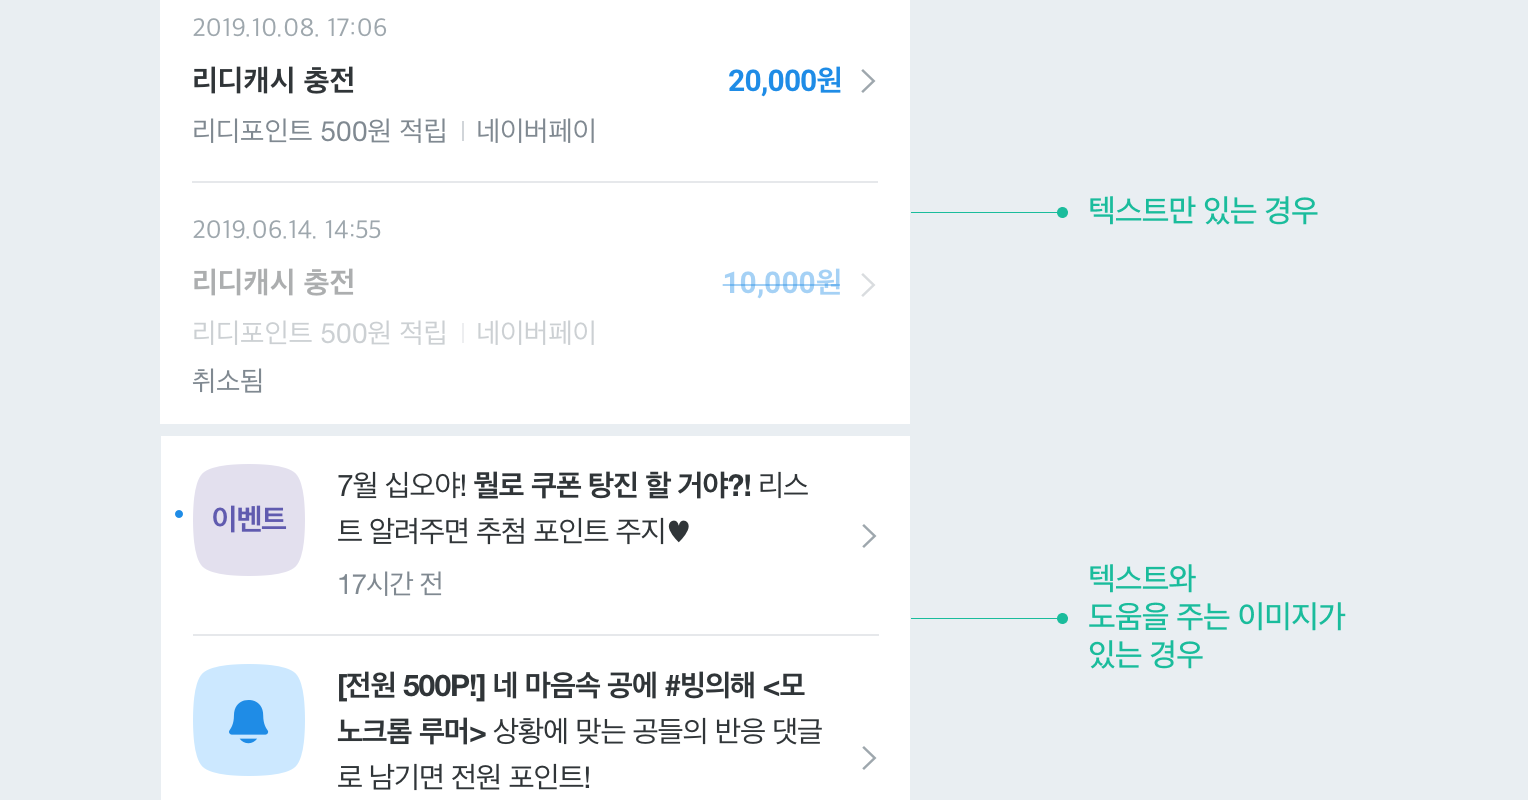
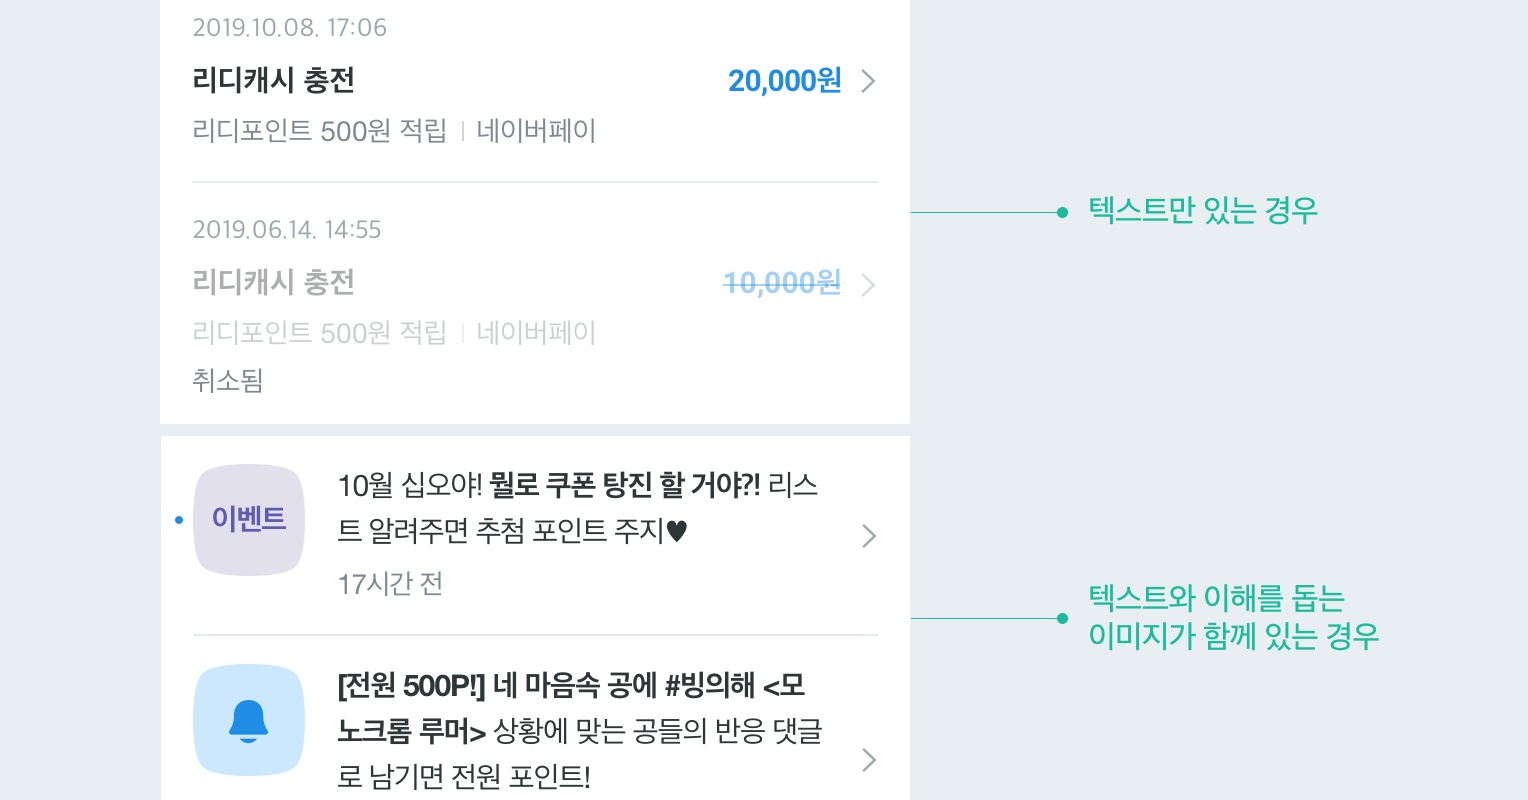
피드백 반영

Changed region(s): [[0.7075, 0.6875, 0.9228, 0.8438], [0.2153, 0.5938, 0.5229, 0.625], [0.2461, 0.6562, 0.4614, 0.6875]]

diff --git a/docs/_pages/web/components/index.md b/docs/_pages/web/components/index.md
@@ -263,17 +263,17 @@
 
 ## Lists
 
-리스트는 텍스트와 이미지가 수직으로 연속되어 나열되는 컴포넌트입니다. 전체 페이지를 차지하는 리스트 뿐 아니라 특정 영역을 차지하는 리스트 또한 리스트 컴포넌트에 속합니다.
+리스트는 텍스트와 이미지가 수직으로 연속해서 나열되는 컴포넌트입니다. 전체 페이지를 차지하는 리스트뿐 아니라 특정 영역을 차지하는 리스트 또한 리스트 컴포넌트에 속합니다.
 ![List](list/list-intro.png)
 
 ### 리스트 구성
 ![List 구성](list/list-anatomy.png)
-크게 리스트열, 리스트 내 콘텐츠, 하단선으로 구성됩니다.
+크게 리스트 열, 리스트 내 콘텐츠, 구분 선으로 구성됩니다.
 
 ### 리스트 열
 
-- 연속되는 여러 리스트 열은 일관성 있는 포맷을 사용해야 합니다.
-- 리스트 열의 순서는 최대한 예측 가능하게 정렬되어야 합니다.
+- 연속되는 여러 리스트 열은 일관성 있는 포맷을 사용합니다.
+- 리스트 열의 순서는 최대한 예측 가능하게 정렬합니다.
 
 ### 리스트 내 콘텐츠
 #### 기능에 따른 종류
@@ -281,13 +281,13 @@
 ![이동 가능한 링크만 있는 경우](list/list-feature-one-link.png)
 
 - 이동 가능한 링크만 있는 경우
-  - 우측에 화살표를 반드시 표시하여 이동할 수 있다는 힌트를 줘야 합니다.
+  - 우측에 화살표를 반드시 표시하여 이동할 수 있다는 힌트를 줍니다.
   - 리스트 열 전체 영역을 모바일 active, 데스크톱 hover로 사용합니다.
 
 ![링크 이동이 아닌 그 외의 기능이 있는 경우](list/list-feature-function.png)
 
 - 링크 이동이 아닌 그 외의 기능이 있는 경우 
-  - 모바일 active, 데스크톱 hover 영역을 미리 고려해야 합니다.
+  - 모바일 active, 데스크톱 hover 영역을 미리 고려합니다.
   - 버튼을 사용할 경우 25px 높이 버튼을 사용합니다.
 
 #### 구성에 따른 종류
@@ -295,16 +295,17 @@
 ![구성에 따른 종류](list/list-composition.png)
 
 - 텍스트만 있는 경우
-- 텍스트와 도움을 주는 이미지가 있는 경우
+- 텍스트와 이해를 돕는 이미지가 함께 있는 경우
 
-### 하단선
+### 구분 선
 
-- 리스트 내 콘텐츠가 한 줄일 경우 하단 선을 표시하지 않습니다.
-- 모든 최하단 리스트 열의 하단 선은 표시하지 않습니다.
+- 구분 선은 리스트 하단에 표시합니다.
+- 리스트 내 콘텐츠가 한 줄일 경우 구분 선을 표시하지 않습니다.
+- 모든 최하단 리스트 열의 구분 선은 표시하지 않습니다.
 
 ### 리스트 내 타이포그래피
 
-리스트의 주 콘텐츠는 텍스트입니다. 여러 리스트 열을 분류할 때도 `Subtitle`, `Subheader` 같은 종류의 텍스트가 사용됩니다. 그러므로 여러 텍스트 간의 위계가 보다 중요합니다. 텍스트 스타일이 지정된 타입을 용도에 맞게 사용합니다. 
+리스트의 주 콘텐츠는 텍스트입니다. 여러 리스트 열을 분류할 때도 `Subtitle`, `Subheader` 같은 텍스트가 사용됩니다. 그러므로 여러 텍스트 간의 위계가 더욱 중요합니다. 스타일이 지정된 텍스트를 용도에 맞게 사용합니다.
 
 전체
 
